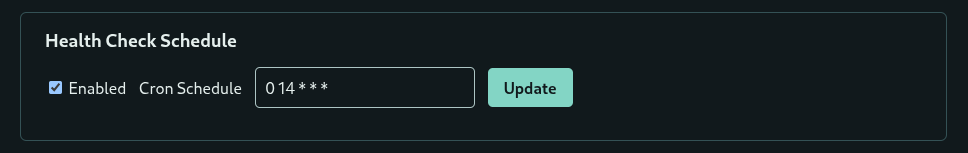
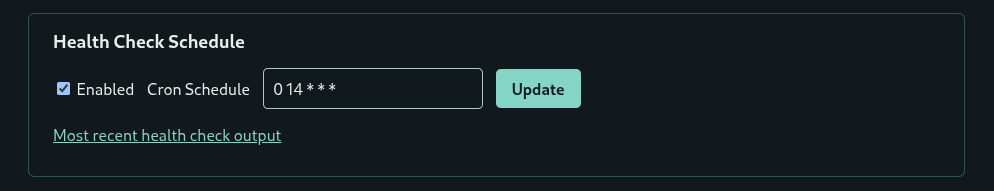
Docs: Website docs

diff --git a/diskha/server/static/index.html b/diskha/server/static/index.html
@@ -95,8 +95,8 @@
     </section>
     <section class="panel health" aria-labelledby="health-heading">
       <h2 id="health-heading">Disk Health</h2>
-      {{run_control}}
       {{health}}
+      {{run_control}}
     </section>
     <section class="panel" aria-labelledby="email-heading">
       <h2 id="email-heading">Email Notification</h2>

diff --git a/index.md b/index.md
@@ -4,15 +4,24 @@ title: Scheduled Disk Replication with Gmail Alerts
 
 ## Overview
 
-This project is a basic disk replication application. It includes a web interface to:
+This project implements basic disk replication between two local disks. **DiskHA** uses `rsync` to synchronize the data and `cron` to schedule it. It ships with easy-to-use *install* and *uninstall* scripts. **DiskHA** also includes a web interface to:
 
-- Choosesource and target directories.
+- Choose source and target directories.
 - Set a SMART health check (cron) schedule.
 - Set a (rsync) data synchronization (cron) schedule.
-- Execute a manual health check.
-- Email a disk report to a Gmail account.
+- Execute a manual (SMART) health check.
+- Email a (SMART) disk report to a Gmail account.
 
-**IMPORTANT NOTE**: The `rsync` operation includes the `--delete` flag, which means that delete operations on the source are propaged to the target.
+**IMPORTANT NOTES**: 
+
+- The `rsync` operation includes the `--delete` flag, which means that delete operations on the source are propagated to the target. This app is about replication, this is **not** a backup solution.
+- This app does not support RAID or LVM drives.
+
+### Example Use
+
+I use this software on my NFS server. I have a pair of 8 TB drives. I export the source as read-write. When I have a disk failure, I power down the server and disconnect both drives until I have received a replacement. When the disk arrives, I connect it (power, data), power up, create a filesystem, update the UUID in the `/etc/fstab`. Finally, I fire up **DiskHA**, reconfigure the sync directories and click on *Sync Now*.
+
+This design follows the (K)eep (I)t (S)imple (S)illy principle.
 
 ## Download & Install
 
@@ -40,61 +49,42 @@ host = 0.0.0.0
 port = 23300
 request_timeout = 15
 ```
+## The Web Interface
 
-## Disk layout
+The [web interface](/pages/images/web-interface.png) is broken down into sections.
 
-| Role | Mount point | Filesystem UUID | Existing sync path |
-| --- | --- | --- | --- |
-| Primary | `/exports/disk1` | `824971c7-d263-4b6a-a562-3452c3482ece` | `/exports/old` |
-| Recovery copy | `/exports/disk2` | `b14c1ec0-df91-4f3d-a990-b0c820b81a9c` | `/exports/new` |
+### Drive Configuration
 
-Both filesystems are ext4 and are mounted by UUID through `/etc/fstab`.
-Synchronization runs from the primary to the recovery copy.
+![Drive Configuration](/pages/images/drive-config.png)
 
-## Agreed scope and behavior
+The source and destination directories are configured here. These should be on two different local disks.
 
-- Check both disks regularly for failure or degradation and notify the operator
-  when a problem is detected.
-- Synchronize the recovery disk on a schedule.
-- Select source and target directories, including differently named
-  subdirectories, on two distinct local drives. Detect their backing mounts,
-  filesystem UUIDs, and stable drive identities for mirroring and monitoring.
-- Continue scheduled synchronization when a disk health check raises an alert.
-- Verify that both expected disks are mounted before synchronization. A missing
-  or incorrect mount must prevent that sync run, especially because rsync uses
-  `--delete`.
-- Make configuration, scheduling, installation, and verification clear enough
-  to restore reliably after a server rebuild.
+### Health Check Schdule
 
-The recovery disk is a mirror: deletions on the primary propagate to it. It does
-not retain earlier versions. Monitoring and mirroring reduce the risk of data
-loss but cannot guarantee protection against two sudden disk failures.
+![Heatth Check Schedule](/pages/images/health-check-schedule.png)
 
-## Manual response and boundaries
+The `cron` health check schedule is set here. Run `man 5 crontab` to learn about cron job scheduling.
 
-Disk replacement and recovery are manual. On receiving a disk failure alert,
-the operator will power down the server, disconnect the drives, obtain one or
-two replacements as needed, reconnect the appropriate drives, and synchronize
-the replacement storage.
+### Data Sync Schedule
 
-NFS configuration, NFS failover, and automatic recovery are outside this
-project's scope.
+![Data Sync Schedule](/pages/images/data-sync-schedule.png)
 
-The [web interface]({{ site.baseurl }}{% link pages/web-interface.md %}) currently
-displays a title bar and Drive Configuration controls for source and target
-directories on port `23300`, with filesystem capacity, usage, and free space in TB.
-[Disk health]({{ site.baseurl }}{% link pages/disk-health.md %}) runs through a
-configured cron job and saves results in a flat JSON file displayed by the Web UI.
-Health Check Schedule reads and edits the installed cron schedule. The Disk Health
-panel provides **Run Now** for a background health check.
-Email Notification shows the configured contact and provides **Email Health Check**
-for a fresh, verbose SMART report of both disks.
-The initial schedule checks daily at 14:00 server time and retains the existing
-script's email settings. Installed settings are preserved on upgrade.
-[Data synchronization]({{ site.baseurl }}{% link pages/data-sync.md %}) mirrors
-the selected source directory to the target every four hours by default. Data Sync Schedule reads and edits
-its cron entry and links to the most recent verbose output.
+Configure the `cron` data sync schedule here.
 
-## Development
+### Disk Health
 
-[Coding guidelines]({{ site.baseurl }}{% link pages/coding-guidelines.md %})
+![Disk Health](/pages/images/disk-health.png)
+
+This section shows the latest disk health check results and includes a *Run Now* button to manually trigger a health check.
+
+### Email Notification
+
+![Email Notification](/pages/images/email-notification.png)
+
+This section shows the configured Gmail address and also includes an *Email Health Check* button. This can be used to test your email notification configuration.
+
+## Comments? Questions? Feedback?
+
+If you like this project and/or find it useful. Please give the [GitHub Repo](https://github.com/NadimGhaznavi/disk-ha/stargazers) a star.
+
+Please contact me if you find any bugs or would like to see additional features.

diff --git a/CHANGELOG.md b/CHANGELOG.md
@@ -7,6 +7,13 @@ and this project adheres to [Semantic Versioning](https://semver.org/spec/v2.0.0
 
 ## [Unreleased]
 
+This release celebrates the Cree language. This is the **kēkā-mitātaht** (9) release.
+
+### Changed
+
+- Move **Run Now** below the results in the Disk Health section.
+- Additional website content.
+
 ## [2.2.0] - 2026-10-15 @ 03:49
 
 This release celebrates the Cree language. This is the **ayēnānēw** (8) release.
